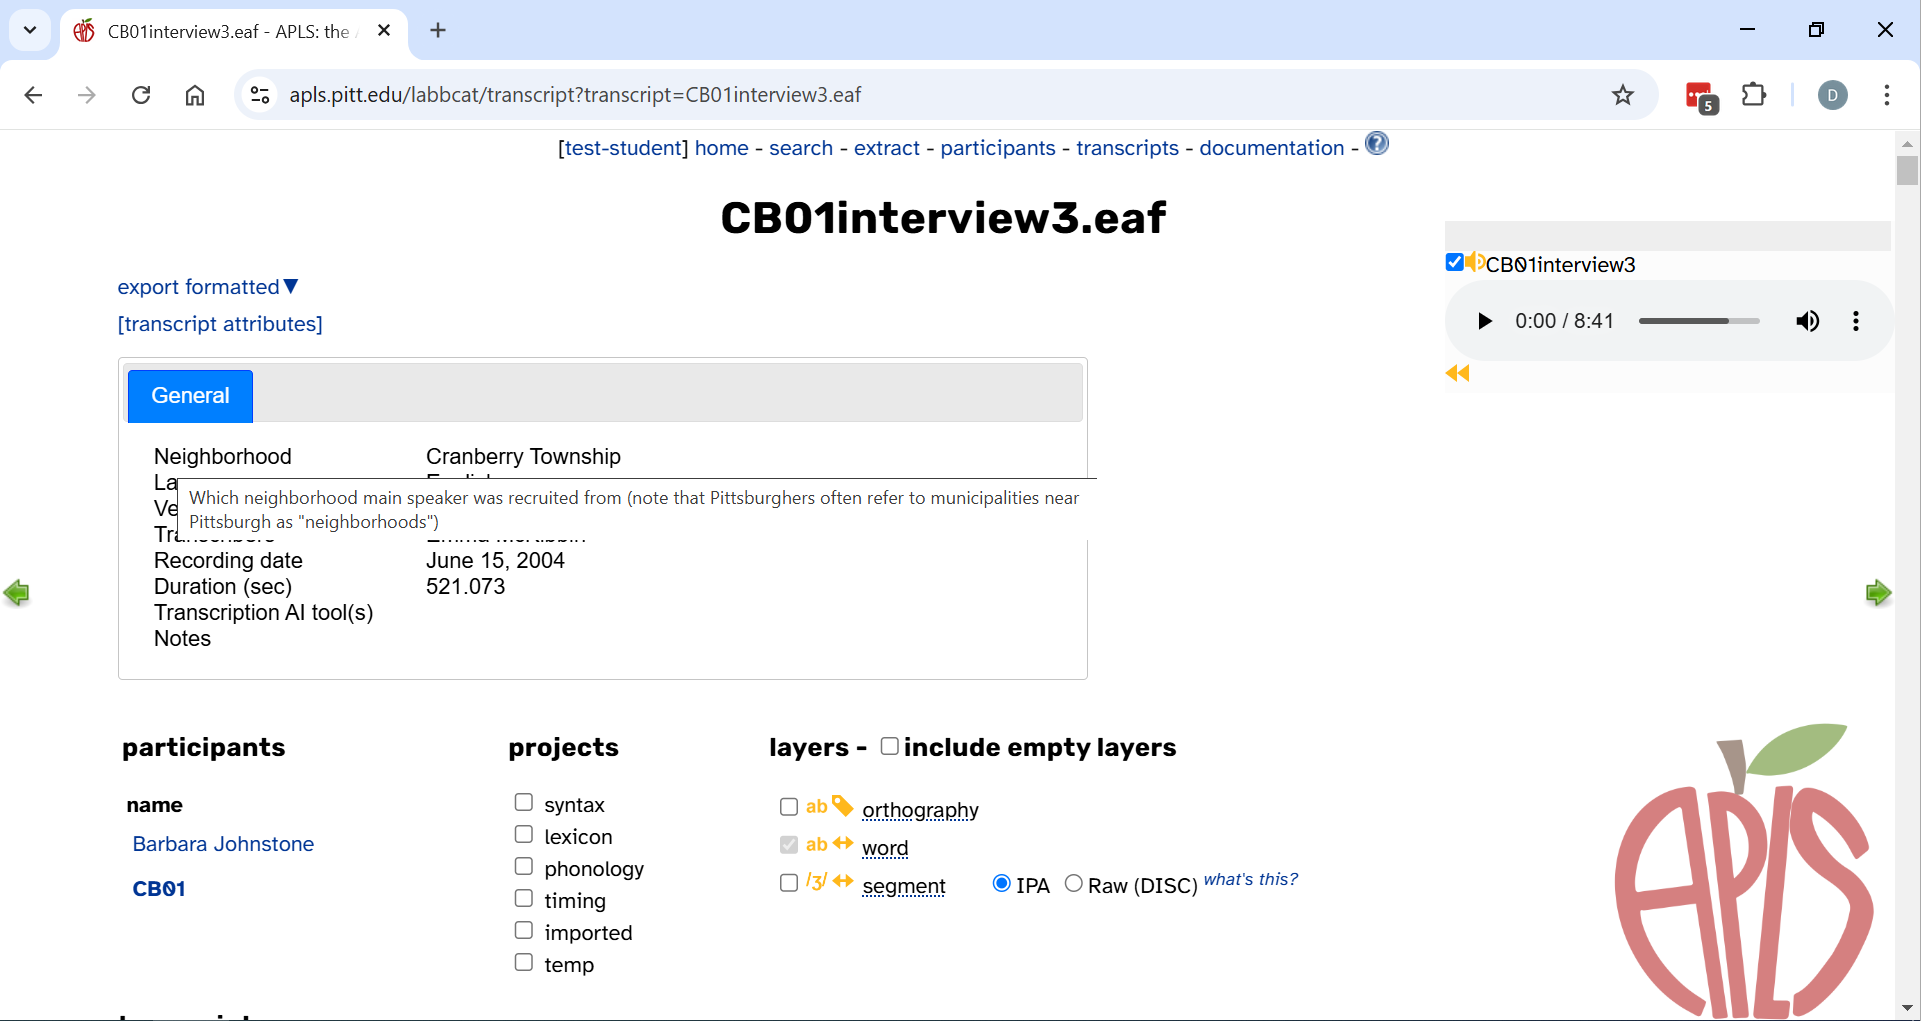
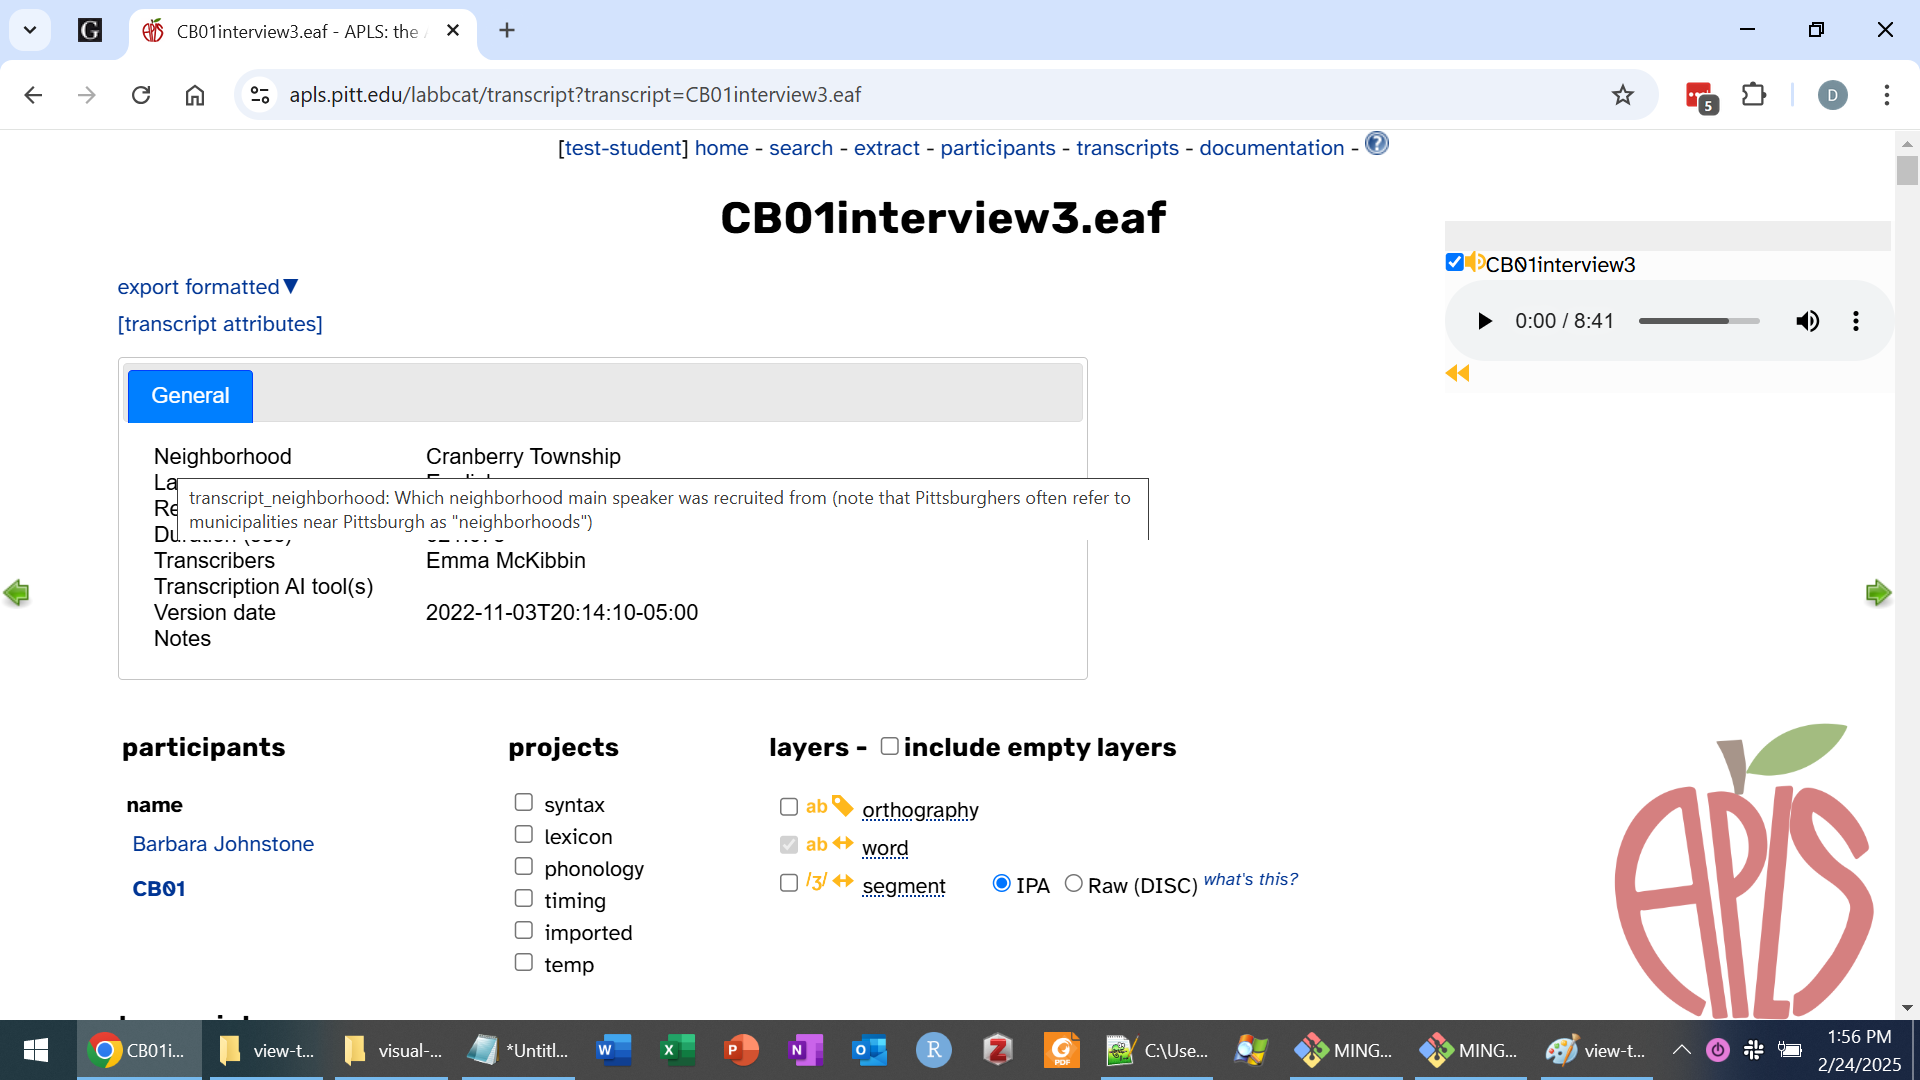
Tweak transcript UI

diff --git a/doc/how-to-use/view-transcript.md b/doc/how-to-use/view-transcript.md
@@ -5,7 +5,7 @@ parent: How to use APLS
 has_children: yes
 has_toc: no
 nav_order: 20
-last_modified_date: 2025-02-24T13:13:59-05:00
+last_modified_date: 2025-02-24T13:58:33-05:00
 ---
 
 # {{ page.title }}
@@ -167,13 +167,9 @@ This panel shows' <span class="keyterm">transcript attributes</span> display tit
 
 ![]({{ '/assets/screengrab/view-transcript/view-transcript-attributes.png' | relative_url }})
 
-You can hover over a display title for a short description of that attribute.
+If you hover over a display title, a tooltip will pop up with the attribute's [export name]({{ '/doc/attribute-typology#export-name'}}) and short description.
 
 ![]({{ '/assets/screengrab/view-transcript/view-transcript-attribute-hover.png' | relative_url }})
-
-{% comment %}
-(I want to change the UI for this.)
-{% endcomment %}
 
 Blanks in the right-hand column mean that this transcript doesn't have any value for that attribute.
 For example, the previous screengrabs show a blank for `Transcription AI tool(s)` because the <span class="transcript-attr">transcription_ai_tools</span> attribute is empty for `CB01interview3.eaf`;
